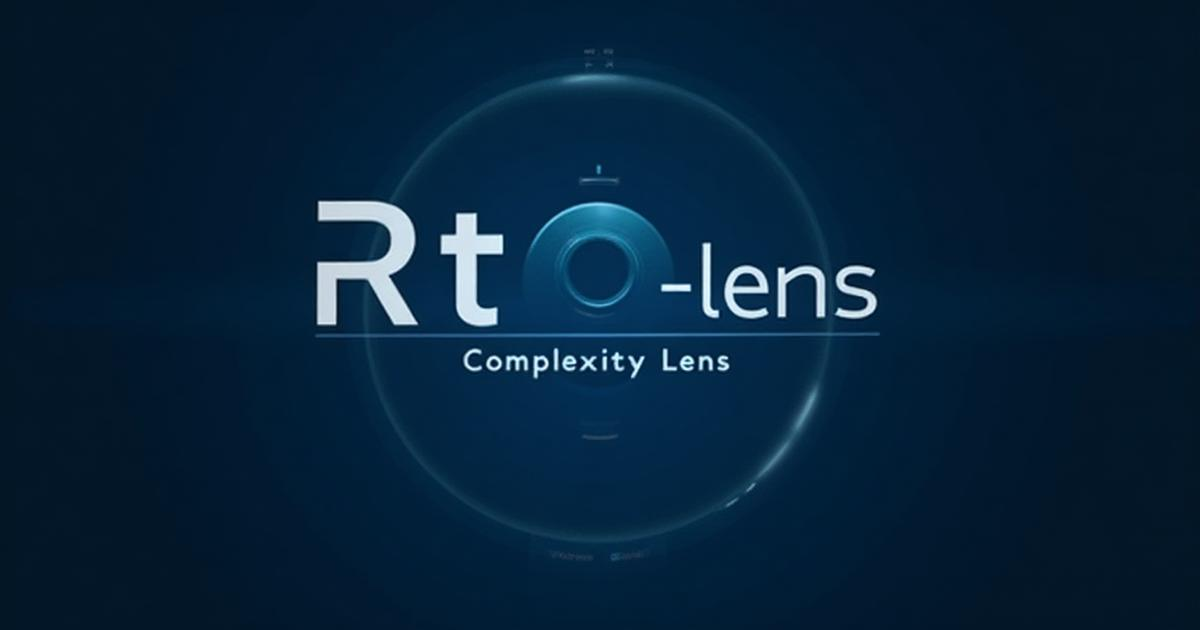
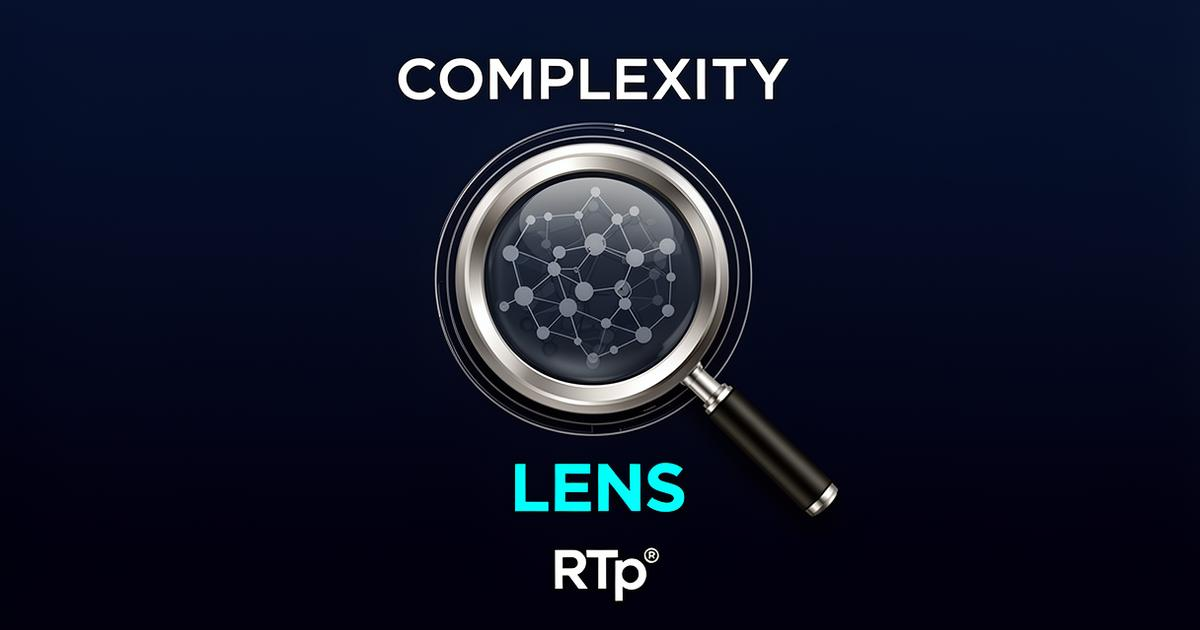
Changes

diff --git a/src/components/ui/logo.tsx b/src/components/ui/logo.tsx
@@ -20,7 +20,7 @@ export function Logo({ size = 'md', showText = true, className }: LogoProps) {
       <LogoIcon size={config.icon} />
       {showText && (
         <span className={cn('font-bold tracking-tight', config.text)}>
-          RTp-lens
+          RT<span className="text-[0.7em] align-baseline">p</span>-lens
         </span>
       )}
     </div>
@@ -33,6 +33,22 @@ interface LogoIconProps {
 }
 
 export function LogoIcon({ size = 28, className }: LogoIconProps) {
+  // Network node positions (centered around 13,13 which is lens center)
+  const centerX = 13;
+  const centerY = 13;
+  const radius = 5;
+  
+  // 6 outer nodes in hexagonal pattern
+  const nodes = [
+    { x: centerX, y: centerY }, // center
+    { x: centerX, y: centerY - radius }, // top
+    { x: centerX + radius * 0.866, y: centerY - radius * 0.5 }, // top-right
+    { x: centerX + radius * 0.866, y: centerY + radius * 0.5 }, // bottom-right
+    { x: centerX, y: centerY + radius }, // bottom
+    { x: centerX - radius * 0.866, y: centerY + radius * 0.5 }, // bottom-left
+    { x: centerX - radius * 0.866, y: centerY - radius * 0.5 }, // top-left
+  ];
+
   return (
     <svg
       width={size}
@@ -42,59 +58,104 @@ export function LogoIcon({ size = 28, className }: LogoIconProps) {
       xmlns="http://www.w3.org/2000/svg"
       className={className}
     >
-      {/* Background circle representing the lens */}
+      {/* Outer decorative ring */}
       <circle
-        cx="16"
-        cy="16"
-        r="14"
+        cx="13"
+        cy="13"
+        r="11"
+        stroke="currentColor"
+        strokeWidth="1"
+        strokeOpacity="0.3"
+        className="text-primary"
+      />
+      
+      {/* Main lens circle */}
+      <circle
+        cx="13"
+        cy="13"
+        r="9"
         stroke="currentColor"
         strokeWidth="2"
         className="text-primary"
       />
       
-      {/* Inner lens rings */}
+      {/* Lens fill (semi-transparent) */}
       <circle
-        cx="16"
-        cy="16"
-        r="10"
-        stroke="currentColor"
-        strokeWidth="1.5"
-        strokeOpacity="0.4"
+        cx="13"
+        cy="13"
+        r="8"
+        fill="currentColor"
+        fillOpacity="0.1"
         className="text-primary"
       />
-      <circle
-        cx="16"
-        cy="16"
-        r="6"
+      
+      {/* Network connections - lines from center to outer nodes */}
+      {nodes.slice(1).map((node, i) => (
+        <line
+          key={`center-${i}`}
+          x1={centerX}
+          y1={centerY}
+          x2={node.x}
+          y2={node.y}
+          stroke="currentColor"
+          strokeWidth="0.8"
+          strokeOpacity="0.6"
+          className="text-primary"
+        />
+      ))}
+      
+      {/* Network connections - lines between adjacent outer nodes */}
+      {nodes.slice(1).map((node, i) => {
+        const nextNode = nodes[(i + 1) % 6 + 1];
+        return (
+          <line
+            key={`outer-${i}`}
+            x1={node.x}
+            y1={node.y}
+            x2={nextNode.x}
+            y2={nextNode.y}
+            stroke="currentColor"
+            strokeWidth="0.6"
+            strokeOpacity="0.4"
+            className="text-primary"
+          />
+        );
+      })}
+      
+      {/* Network nodes */}
+      {nodes.map((node, i) => (
+        <circle
+          key={`node-${i}`}
+          cx={node.x}
+          cy={node.y}
+          r={i === 0 ? 1.5 : 1}
+          fill="currentColor"
+          className="text-primary"
+        />
+      ))}
+      
+      {/* Magnifying glass handle */}
+      <line
+        x1="20"
+        y1="20"
+        x2="28"
+        y2="28"
+        stroke="currentColor"
+        strokeWidth="3"
+        strokeLinecap="round"
+        className="text-primary"
+      />
+      
+      {/* Handle highlight */}
+      <line
+        x1="21"
+        y1="21"
+        x2="27"
+        y2="27"
         stroke="currentColor"
         strokeWidth="1"
-        strokeOpacity="0.2"
-        className="text-primary"
-      />
-      
-      {/* RT letters */}
-      <text
-        x="16"
-        y="18"
-        textAnchor="middle"
-        dominantBaseline="middle"
-        className="text-primary"
-        fill="currentColor"
-        fontSize="10"
-        fontWeight="700"
-        fontFamily="system-ui, -apple-system, sans-serif"
-      >
-        RT
-      </text>
-      
-      {/* Lens reflection highlight */}
-      <path
-        d="M8 10 Q12 6 16 8"
-        stroke="currentColor"
-        strokeWidth="1.5"
-        strokeLinecap="round"
         strokeOpacity="0.3"
-        fill="none"
+        strokeLinecap="round"
         className="text-primary"
       />
     </svg>
